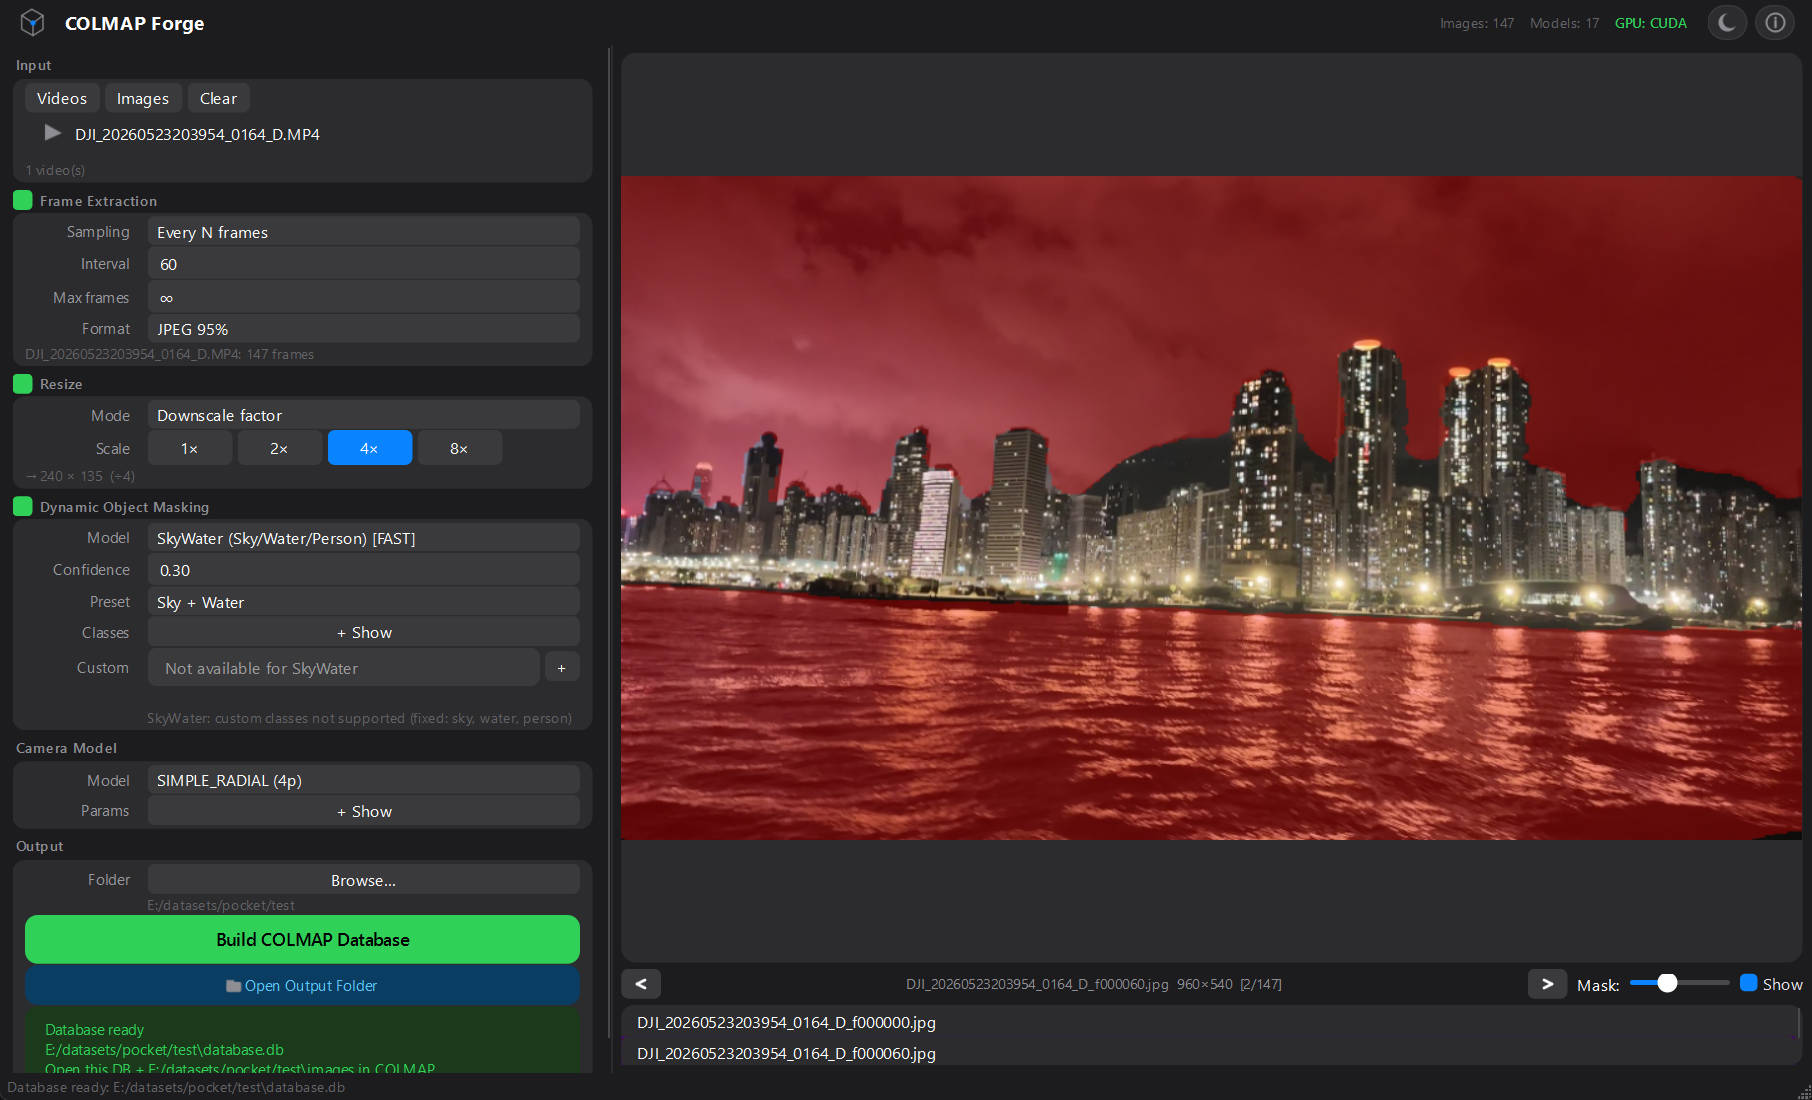
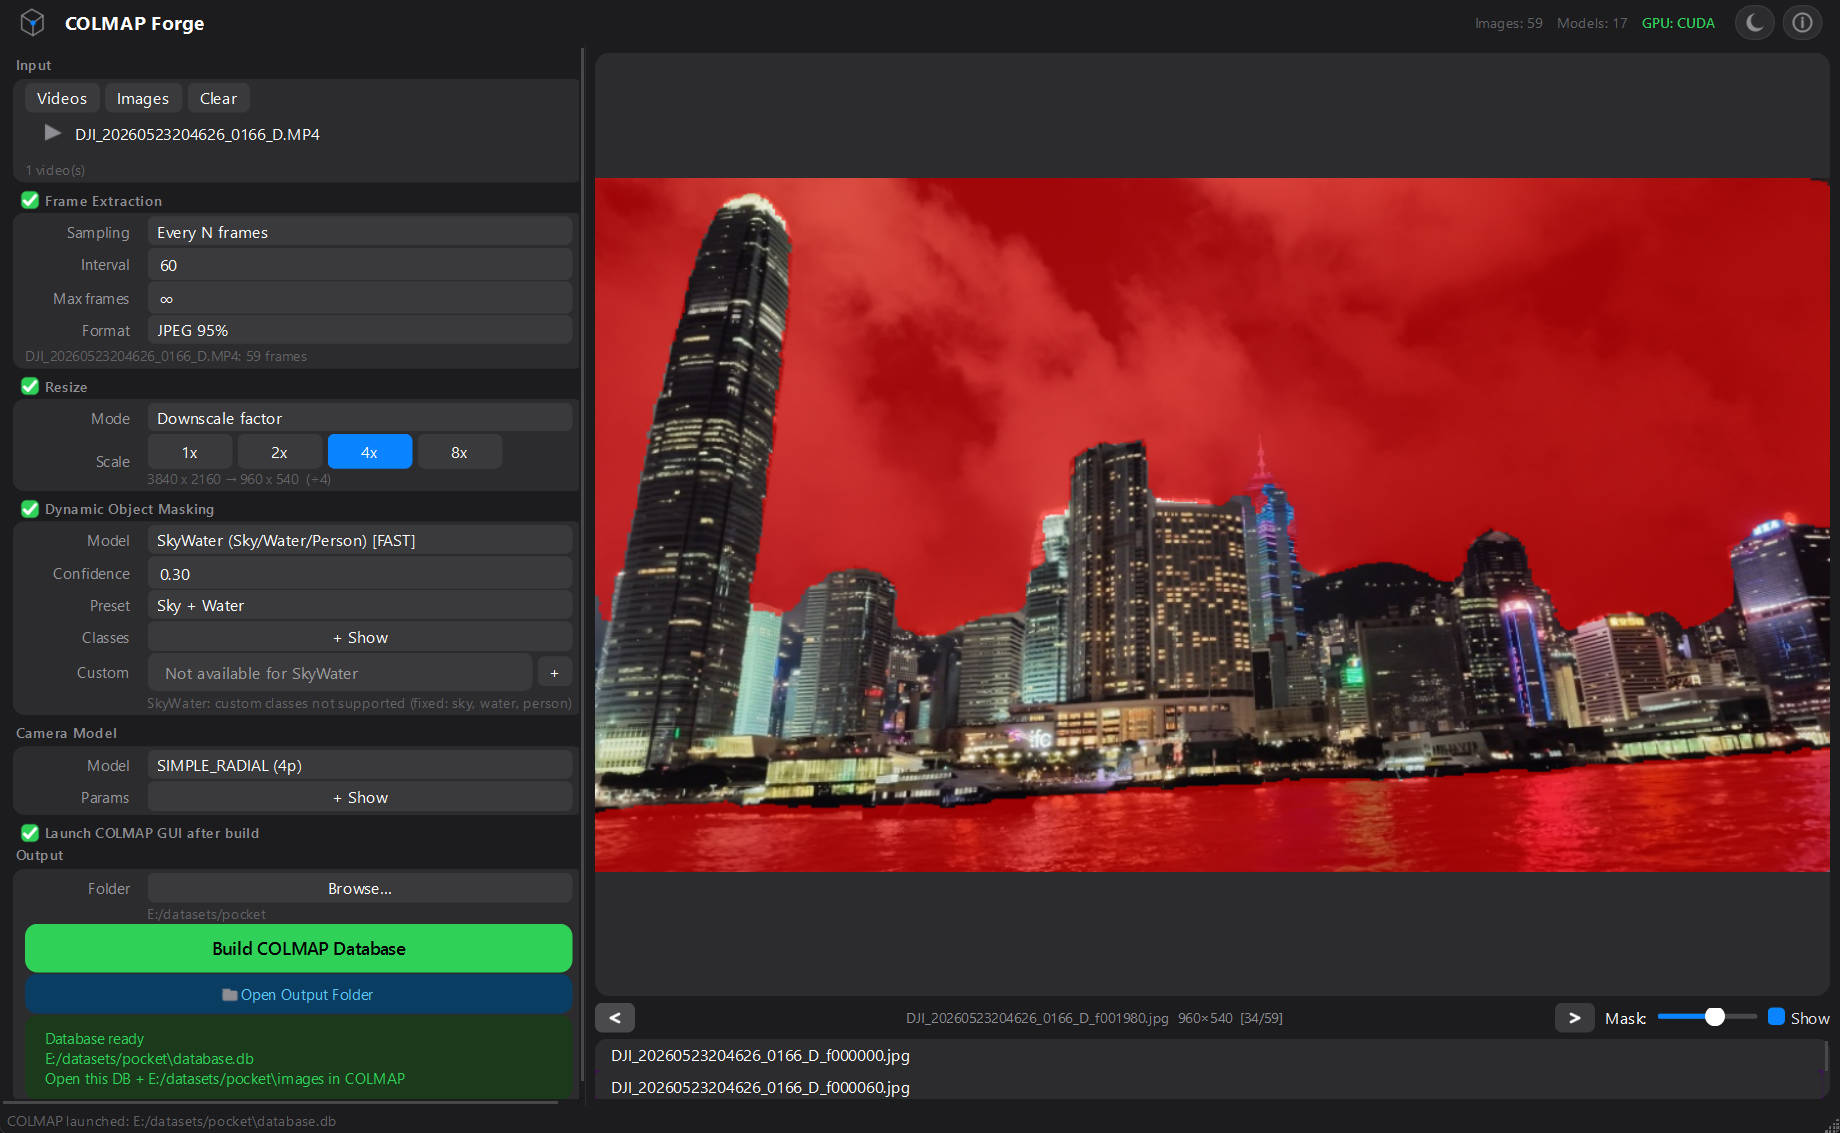
Fix splitter collapse, window height jump on drag, and compact form layout
- splitter: disable left panel collapse (setCollapsible(0, False)),
  widen initial size to 420px so widgets don't clip
- status bar: use setStatusBar() instead of embedding in central
  layout — prevents QMainWindow from lazily creating a duplicate
  status bar that added ~25px to window height on first drag
- showEvent: defer resize(1200, 1000) until window frame geometry
  is resolved, avoiding the height jump on Windows title-bar drag
- constants: tighten LABEL_W (90→80), COMBO (180→150),
  SPIN_MIN (80→70) for a more compact settings panel
- scroll area: adjust min/max width to 340/480

diff --git a/colmapforge/main_window.py b/colmapforge/main_window.py
@@ -51,7 +51,7 @@ class MainWindow(QMainWindow):
     def __init__(self) -> None:
         super().__init__()
         self.setWindowTitle("COLMAP Forge")
-        self.setMinimumSize(960, 900); self.resize(1200, 1000)
+        self.setMinimumSize(960, 900)
         self.setWindowIcon(make_app_icon())
 
         # ── shared state ──
@@ -86,6 +86,12 @@ class MainWindow(QMainWindow):
         self._install_scroll_blocker()
         self._refresh_gpu_status()
         QTimer.singleShot(200, self._preview.refresh_preview)
+
+    def showEvent(self, event) -> None:
+        """Defer resize until window frame geometry is resolved (avoids height
+        jump when dragging the title bar on Windows after first show)."""
+        super().showEvent(event)
+        self.resize(1200, 1000)
 
     # ═══════════════════════════════════════════════════════════════════
     # Theme
@@ -185,16 +191,19 @@ class MainWindow(QMainWindow):
         splitter = QSplitter(Qt.Orientation.Horizontal)
         splitter.addWidget(self._make_left_panel())
         splitter.addWidget(self._preview)
-        splitter.setSizes([420, 780])
+        splitter.setCollapsible(0, False)  # prevent left panel from disappearing when dragged
         splitter.setStretchFactor(0, 0)
         splitter.setStretchFactor(1, 1)
+        splitter.setSizes([420, 780])
         root.addWidget(splitter, 1)
 
-        self.status_bar = QStatusBar(); root.addWidget(self.status_bar)
+        self.status_bar = QStatusBar()
+        self.status_bar.setSizeGripEnabled(False)
+        self.setStatusBar(self.status_bar)
 
     def _make_left_panel(self) -> QWidget:
         scroll = QScrollArea(); scroll.setWidgetResizable(True)
-        scroll.setMinimumWidth(360); scroll.setMaximumWidth(520)
+        scroll.setMinimumWidth(340); scroll.setMaximumWidth(480)
         scroll.setObjectName("leftPanel")
         scroll.setFrameShape(QScrollArea.Shape.NoFrame)
         scroll.setAttribute(Qt.WidgetAttribute.WA_TranslucentBackground, False)

diff --git a/colmapforge/views/constants.py b/colmapforge/views/constants.py
@@ -10,13 +10,13 @@ class _S:
     SECTION_GAP = 6
     ROW_GAP = 1
     CARD_PAD = (10, 3, 10, 3)   # left top right bottom — tight
-    LABEL_W = 90                  # form label fixed width (fits "Confidence", "Max frames")
+    LABEL_W = 80                  # form label fixed width (fits "Confidence", "Max frames")
 
 
 class _W:
     """Widget width constants."""
-    COMBO = 180
-    SPIN_MIN = 80
+    COMBO = 150
+    SPIN_MIN = 70
     # No SPIN_MAX — let spinbox stretch to fill grid col 1-2, same as combo box
 
 
